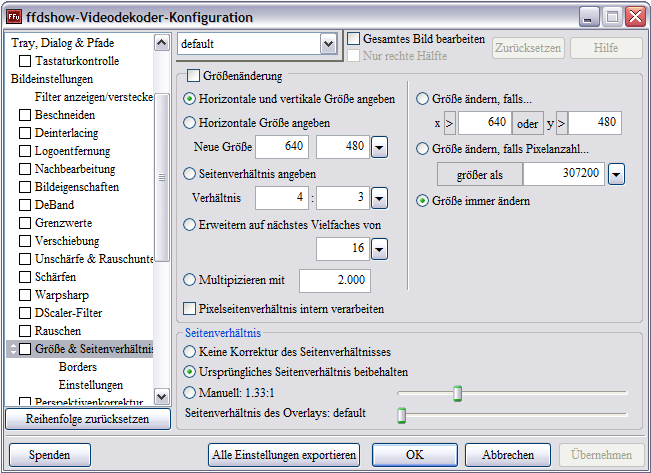
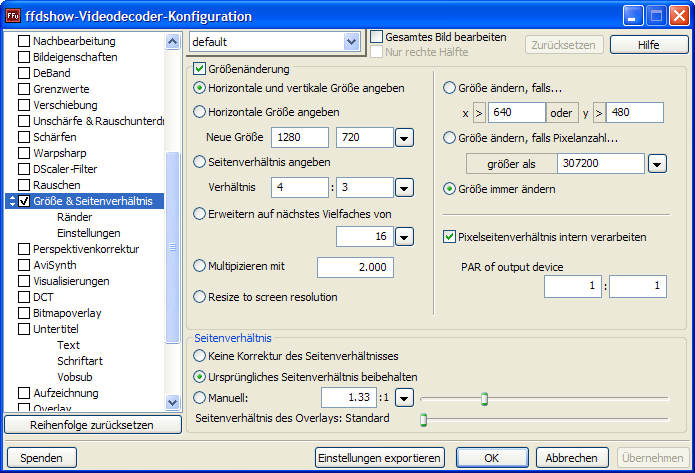
WEB content: Updated screenshots of the ffdshow options window.

diff --git a/htmlhelp/html/de/cspOptions.htm b/htmlhelp/html/de/cspOptions.htm
@@ -32,7 +32,7 @@ If you skip to port a revision please note that revision for later porting. -->
     <a name="top" id="top">Erweiterte Farbraumoptionen</a>
   </h1>
 
-  <img src="images/cspOptions.png" title="Erweiterter Farbraumoptionendialog" alt="Erweiterter Farbraumoptionendialog" width="695" height="413" />
+  <img src="images/cspOptions.png" title="Erweiterter Farbraumoptionendialog" alt="Erweiterter Farbraumoptionendialog" width="695" height="473" />
 
   <p>
     In diesem Dialog k&ouml;nnen Optionen, die f&uuml;r die Konvertierung zwischen YCbCr und RGB notwendig sind, konfiguriert werden. In der oberen H&auml;lfte des Dialogs l&auml;&szlig;t sich zwischen den beiden ITU-Standards <em>ITU-R BT.601</em> und <em>ITU-R BT.709</em> ausw&auml;hlen. Die untere H&auml;lfte erlaubt die Kontrolle des Kontrastes, wobei Schwarz, Wei&szlig; sowie Chroma individuell anpassbar sind.<br />

diff --git a/htmlhelp/html/de/outputv.htm b/htmlhelp/html/de/outputv.htm
@@ -32,7 +32,7 @@ If you skip to port a revision please note that revision for later porting. -->
     <a name="top" id="top">Videoausgabe-Konfiguration</a>
   </h1>
 
-  <img src="images/outputV.png" title="Videoausgabe-Dialog" alt="Videoausgabe-Dialog" width="696" height="408" />
+  <img src="images/outputV.png" title="Videoausgabe-Dialog" alt="Videoausgabe-Dialog" width="695" height="473" />
 
   <p>
     Die Ausgabeseite gibt Ihnen Kontrolle &uuml;ber die von ffdshow verwendeten Ausgabeformate. Die obere H&auml;lfte erm&ouml;glicht die Angabe der erlaubten Ausgabefarbr&auml;ume, w&auml;hrend die untere f&uuml;r verschiedene Ausgabeeinstellungen genutzt wird.

diff --git a/htmlhelp/html/en/outputv.htm b/htmlhelp/html/en/outputv.htm
@@ -25,7 +25,7 @@
     <a name="top" id="top">Output video configuration</a>
   </h1>
 
-  <img src="images/outputV.png" title="Output video dialog" alt="Output video dialog" width="558" height="413" />
+  <img src="images/outputV.png" title="Output video dialog" alt="Output video dialog" width="558" height="473" />
 
   <p>
     The output page gives you control over the output formats used by ffdshow. The top half gives you control over the allowed output colorspaces, while the lower half is used for miscellaneous output settings.

diff --git a/htmlhelp/html/de/resize.htm b/htmlhelp/html/de/resize.htm
@@ -32,7 +32,7 @@ If you skip to port a revision please note that revision for later porting. -->
     <a name="top" id="top">Gr&ouml;&szlig;e &amp; Seitenverh&auml;ltnis</a>
   </h1>
 
-  <img src="images/resize.png" title="Gr&ouml;&szlig;endialog" alt="Gr&ouml;&szlig;endialog" width="651" height="473" />
+  <img src="images/resize.png" title="Gr&ouml;&szlig;endialog" alt="Gr&ouml;&szlig;endialog" width="695" height="473" />
 
   <p>
     Dieses Dokument basiert auf Revision 1103 oder neuer. Beta2a hat andere Spezifikationen.

diff --git a/htmlhelp/html/en/cspOptions.htm b/htmlhelp/html/en/cspOptions.htm
@@ -25,7 +25,7 @@
     <a name="top" id="top">Advanced color space options</a>
   </h1>
 
-  <img src="images/cspOptions.png" title="Advanced color space options dialog" alt="Advanced color space options dialog" width="558" height="413" />
+  <img src="images/cspOptions.png" title="Advanced color space options dialog" alt="Advanced color space options dialog" width="558" height="473" />
 
   <p>
     The advanced color space options page gives you control over the YCbCr &lt;-&gt; RGB conversion.

diff --git a/htmlhelp/html/de/queue.htm b/htmlhelp/html/de/queue.htm
@@ -32,7 +32,7 @@ If you skip to port a revision please note that revision for later porting. -->
     <a name="top" id="top">Warteschlange</a>
   </h1>
 
-  <img src="images/queue.png" title="Warteschlangendialog" alt="Warteschlangendialog" width="558" height="473" />
+  <img src="images/queue.png" title="Warteschlangendialog" alt="Warteschlangendialog" width="695" height="473" />
 
   <h2>&Uuml;berblick</h2>
 

diff --git a/htmlhelp/html/en/avisynth.htm b/htmlhelp/html/en/avisynth.htm
@@ -26,7 +26,7 @@
     <a name="top" id="top">AviSynth filter</a>
   </h1>
 
-  <img src="images/avisynth.png" width="558" height="406" title="AviSynth filter dialog" alt="AviSynth filter dialog" />
+  <img src="images/avisynth.png" width="558" height="473" title="AviSynth filter dialog" alt="AviSynth filter dialog" />
 
   <p>
     This document is based on rev. 1297 or later.

diff --git a/htmlhelp/html/en/resize.htm b/htmlhelp/html/en/resize.htm
@@ -25,7 +25,7 @@
     <a name="top" id="top">Resize &amp; aspect</a>
   </h1>
 
-  <img src="images/resize.png" title="Resize dialog" alt="Resize dialog" width="558" height="412" />
+  <img src="images/resize.png" title="Resize dialog" alt="Resize dialog" width="558" height="473" />
 
   <p>
     This document is based on rev 1103 or later. Beta2a has different specification.
